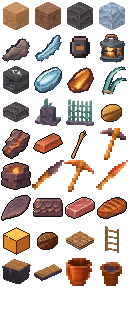
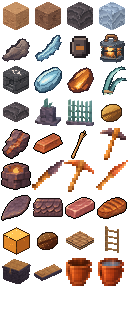
Titã: balde cheio com a nova arte de água (sprite 16×16)
O Balde de Cobre cheio passa a usar Balde_de_Cobre_Cheio_Agua.png: o script de sprites tira o fundo preto por inundação a partir das bordas e fica só com o maior pedaço (marca d'água fora). Atlas e máscara regenerados.

Claude-Session: https://claude.ai/code/session_01KGdgonZQ5RGGnaRzTSYEwp

Changed region(s): [[0.75, 0.7812, 0.9688, 0.9062]]

diff --git a/scripts/make-titan-sprites16.py b/scripts/make-titan-sprites16.py
@@ -10,6 +10,7 @@ Redução: recorta a caixa do desenho, ajusta o lado maior a 16 px (centrado, co
 pré-multiplicado, realça um pouco a saturação e o contraste (para ler bem em 16 px) e deixa o alfa binário. Repetível e determinístico. Uso: python3 -I scripts/make-titan-sprites16.py
 """
 import json
+from collections import deque
 
 import numpy as np
 from PIL import Image, ImageFilter
@@ -19,12 +20,55 @@ N = 16
 # id do item -> (nome do arquivo de origem sem "_Arte.png", giro em graus (sentido horário), margem em px dentro do 16 × 16)
 ITEMS = {
     20: ('Picareta_de_Rocha', 0, 0), 22: ('Adaga_de_Rocha', 180, 0), 23: ('Picareta_de_Cobre', 0, 0), 24: ('Adaga_de_Cobre', 180, 0),
-    35: ('Balde_de_Cobre_Vazio', 0, 1), 36: ('Balde_de_Cobre_Cheio', 0, 1),
+    35: ('Balde_de_Cobre_Vazio', 0, 1), 36: ('Balde_de_Cobre_Cheio_Agua', 0, 1),
 }
+# ilustrações sem alfa (fundo preto chapado): o fundo vira transparente por inundação a partir das bordas, e só o maior pedaço fica (tira marca d'água e sobras)
+KEYED = {'Balde_de_Cobre_Cheio_Agua'}
+
+
+def key_black(im: Image.Image, thresh: int = 40, work: int = 512) -> Image.Image:
+    small = np.array(im.convert('RGB').resize((work, work), Image.BOX)).max(axis=2)
+    dark = small < thresh
+    bg = np.zeros_like(dark)
+    q = deque()
+    for i in range(work):
+        for y, x in ((0, i), (work - 1, i), (i, 0), (i, work - 1)):
+            if dark[y, x] and not bg[y, x]:
+                bg[y, x] = True; q.append((y, x))
+    while q:
+        y, x = q.popleft()
+        for dy, dx in ((1, 0), (-1, 0), (0, 1), (0, -1)):
+            ny, nx = y + dy, x + dx
+            if 0 <= ny < work and 0 <= nx < work and dark[ny, nx] and not bg[ny, nx]:
+                bg[ny, nx] = True; q.append((ny, nx))
+    fg = ~bg
+    seen = np.zeros_like(fg)
+    best = None
+    for y in range(work):
+        for x in range(work):
+            if fg[y, x] and not seen[y, x]:
+                comp = [(y, x)]; seen[y, x] = True; q = deque([(y, x)])
+                while q:
+                    cy, cx = q.popleft()
+                    for dy, dx in ((1, 0), (-1, 0), (0, 1), (0, -1)):
+                        ny, nx = cy + dy, cx + dx
+                        if 0 <= ny < work and 0 <= nx < work and fg[ny, nx] and not seen[ny, nx]:
+                            seen[ny, nx] = True; q.append((ny, nx)); comp.append((ny, nx))
+                if best is None or len(comp) > len(best):
+                    best = comp
+    mask = np.zeros_like(fg)
+    for y, x in best:
+        mask[y, x] = True
+    full = Image.fromarray((mask * 255).astype(np.uint8)).resize(im.size, Image.NEAREST)
+    out = im.convert('RGBA')
+    out.putalpha(full)
+    return out
 
 
 def reduce(name: str, rot: int, margin: int) -> Image.Image:
     im = Image.open(SRC + name + '_Arte.png').convert('RGBA')
+    if name in KEYED:
+        im = key_black(im)
     a = im.getchannel('A')
     core = a.point(lambda v: 255 if v > 128 else 0).filter(ImageFilter.MinFilter(3))  # tira a franja de 1 px do contorno
     im.putalpha(Image.fromarray((np.array(a) * (np.array(core) > 0)).astype(np.uint8)))

diff --git a/docs/adr/0097-titan-regra-visual-sprite-2d-extrudado.md b/docs/adr/0097-titan-regra-visual-sprite-2d-extrudado.md
@@ -12,7 +12,7 @@ Espadas, picaretas, machados, pás, arcos, maças, nozes e todo item que se segu
 - **Já era a técnica do ADR 0087** (`titan/extrude.ts`: um quadrado por pixel opaco na frente e no verso, uma tira lateral por vizinho transparente, espessura 1/16, máscara embutida em `itemMasks.json`, nunca lendo canvas). A espessura é 1/16 do item **em qualquer resolução**; o motor aceita a grade de 16 ou de 32.
 - **Padrão de arte = 16 × 16** (escolhido pelo dono). Os itens antigos seguem em 32 × 32 até serem redesenhados. `itemMasks.json` ganha `small` (máscaras de 16 × 16) e `itemMask(item)` lê primeiro `small`; o atlas de itens de 32 px recebe a arte de 16 ampliada **2× sem suavização** (a interface continua em escala inteira, ADR 0053).
 - **Pipeline:** `scripts/make-titan-sprites16.py` reduz a ilustração do pacote (`assets-src/titan/sprites16/<Nome>_Arte.png`) ao 16 × 16 (recorte da caixa, lado maior a 16 px, erosão de 1 px da franja, média em área com alfa pré-multiplicado, saturação e contraste leves, alfa binário) e grava `assets-src/titan/arte16/*_Item_16px.png` + `itens.json` (id → arquivo); `make-titan-arte32.py` e `make-titan-item-masks.py` leem essa tabela. **Convenção de orientação do Minecraft:** arma e ferramenta na diagonal, **cabo no canto de baixo à esquerda** (o pivô do golpe), então a adaga, que vem com a ponta embaixo, gira 180° no script.
-- **Itens convertidos:** Picareta de Rocha (20), Adaga de Rocha (22), Picareta de Cobre (23), Adaga de Cobre (24), Balde de Cobre vazio (35) e cheio (36). Armas e ferramentas na mão são `tool` (sprite extrudado com pivô no cabo; escala 0,34); o balde é item plano.
+- **Itens convertidos:** Picareta de Rocha (20), Adaga de Rocha (22), Picareta de Cobre (23), Adaga de Cobre (24), Balde de Cobre vazio (35) e cheio (36). O balde cheio vem de `Balde_de_Cobre_Cheio_Agua.png` (água azul-acinzentada; 2048 px, fundo preto chapado e uma marca no canto): `make-titan-sprites16.py` tira o fundo por inundação a partir das bordas e fica só com o maior pedaço (`KEYED`). Armas e ferramentas na mão são `tool` (sprite extrudado com pivô no cabo; escala 0,34); o balde é item plano.
 - **Removido:** os GLB de arquivo na mão (`titan-adaga-rocha.glb`, `titan-picareta-rocha.glb`), o carregador `render/heldItem.ts`, a malha embutida do balde (`HELD_MESHES`, `buildHeldMesh`, `titan-balde*.json`, atlas e o estilo `bucket`), os scripts `export-titan-adaga.py`, `export-titan-picareta.py`, `extract-titan-balde.py` e `make-titan-balde-icone.py`, os ícones de 32 px desses itens e os dois testes que conferiam os GLB. Os GLB de origem do balde ficam em `assets-src/titan/balde/` como referência; o histórico do Git guarda o resto.
 - O repouso do estilo `tool` desceu um pouco (y −0,3) e a escala de 0,42 para 0,34 porque os sprites novos ocupam o 16 × 16 inteiro.
 

diff --git a/docs/CHANGELOG.md b/docs/CHANGELOG.md
@@ -2,7 +2,7 @@
 
 ## Orvalis v0.158.0 — Titã: regra visual de armas, ferramentas e itens (22/11/2026)
 - **ADR 0097.** Armas, ferramentas e itens são **sprite 2D extrudado de 16 × 16** (frente, verso e bordas só onde o pixel toca o transparente, espessura 1/16; nunca modelo 3D esculpido). A técnica já era a do ADR 0087; agora o **padrão de arte é 16 × 16** e o motor aceita 16 e 32.
-- Com as artes do Drive (Adaga e Picareta de Rocha e de Cobre, Balde), esses itens passam de modelo 3D para sprite extrudado: novo `make-titan-sprites16.py` reduz a ilustração ao grid de 16, e as máscaras `small` de `itemMasks.json` e o atlas (ampliação 2× sem suavização) leem essa arte. Saem os GLB de arquivo, `heldItem.ts`, as malhas do balde e os scripts de exportação 3D.
+- Com as artes do Drive (Adaga e Picareta de Rocha e de Cobre, Balde), esses itens passam de modelo 3D para sprite extrudado: novo `make-titan-sprites16.py` reduz a ilustração ao grid de 16, e as máscaras `small` de `itemMasks.json` e o atlas (ampliação 2× sem suavização) leem essa arte. O balde cheio usa a nova arte com água (`Balde_de_Cobre_Cheio_Agua.png`, fundo preto removido pelo script). Saem os GLB de arquivo, `heldItem.ts`, as malhas do balde e os scripts de exportação 3D.
 - Sem mudança de regra, de save nem de gerador. Testes: +3 e −3 (1.167 no total). Conferido a 740 × 360 (na mão e no inventário). Exceção documentada: tridente e besta.
 
 ## Orvalis v0.157.0 — Titã: sons da tampa do baú e do sono (22/11/2026)
